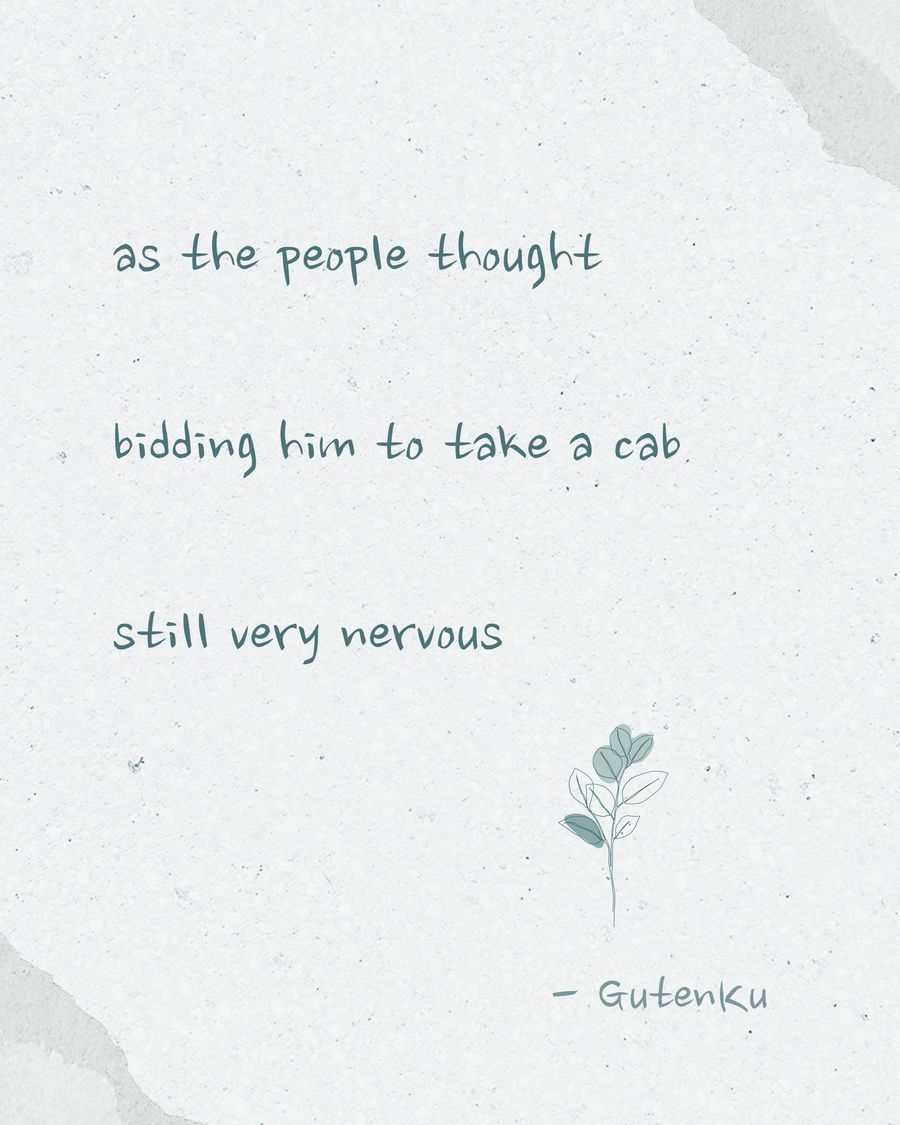
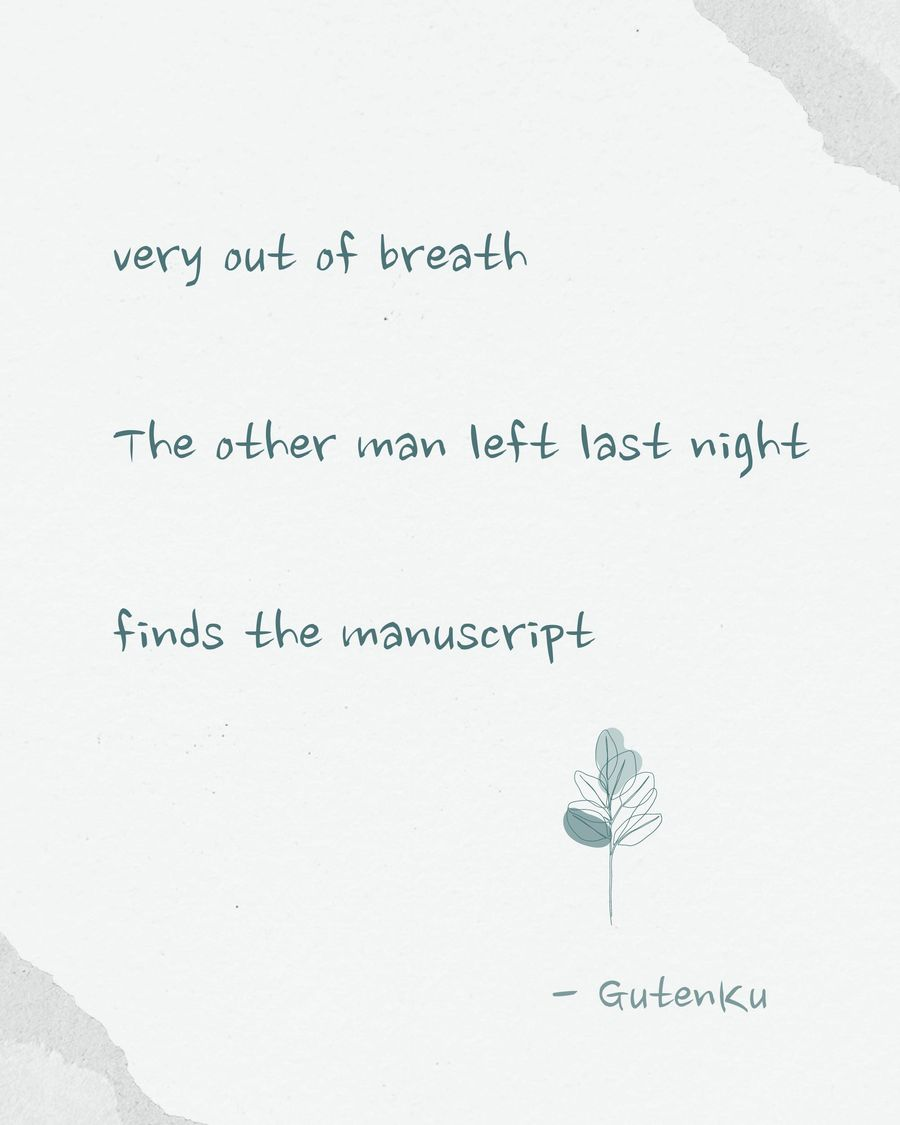
docs(readme): updated daily haiku card

diff --git a/README.md b/README.md
@@ -25,13 +25,13 @@
 <table>
 <tr>
 <td width="300" valign="top">
-<img src="/assets/img/daily_haiku_card.jpg?t=1782554428" width="280" alt="Daily Haiku Card">
+<img src="/assets/img/daily_haiku_card.jpg?t=1782640827" width="280" alt="Daily Haiku Card">
 </td>
 <td valign="top">
 
-> _"This haiku captures a tense, uncertain moment in which a person is being urged by others to take a cab, yet remains visibly nervous. The phrase "as the people thought" suggests social pressure or the opinions of those around him, while "bidding him to take a cab" adds a sense of practical concern and gentle insistence. The final line, "still very nervous," reveals the emotional core of the poem: even with advice and attention from others, the speaker or subject cannot easily calm down. The haiku is effective because it contrasts outward action with inward feeling, showing how anxiety can linger despite reassurance."_
+> _"This haiku suggests a quiet moment of discovery after absence and exhaustion. The opening line, "very out of breath," creates a sense of urgency and physical strain, as though the speaker has been searching or rushing. The next line, "The other man left last night," introduces a feeling of loss, separation, or mystery, implying that someone important has gone away. The final line, "finds the manuscript," brings a surprising turn: something hidden or meaningful is recovered. As a whole, the poem feels sparse but emotionally rich, hinting at departure, search, and the fragile recovery of words, memory, or truth."_
 
-— **BotenKu** 📅 _Jun 27, 2026_
+— **BotenKu** 📅 _Jun 28, 2026_
 
 </td>
 </tr>